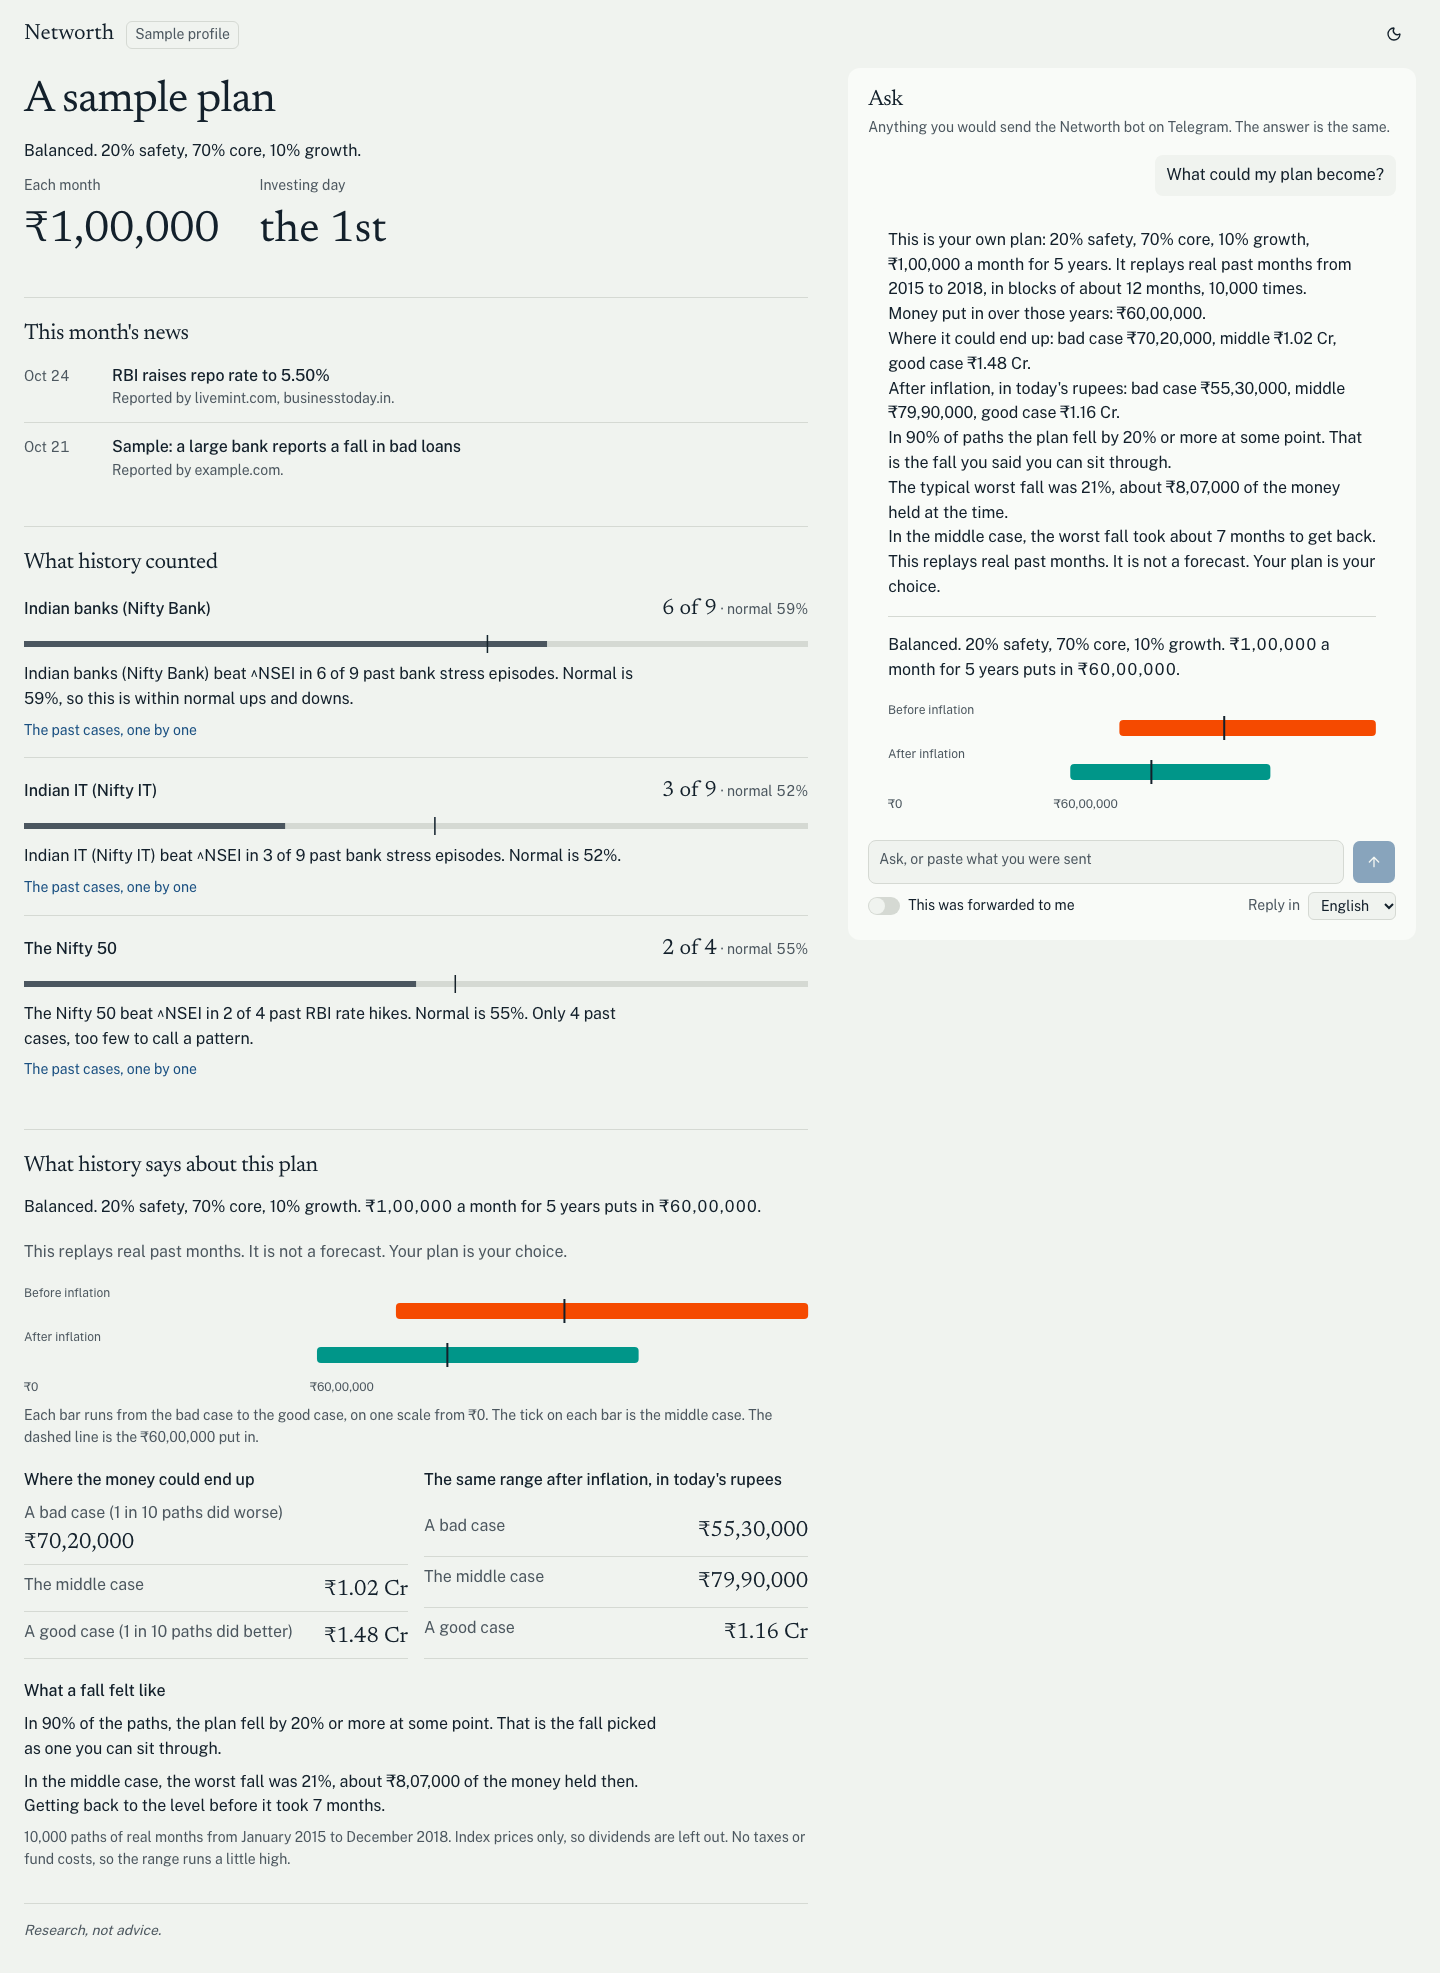
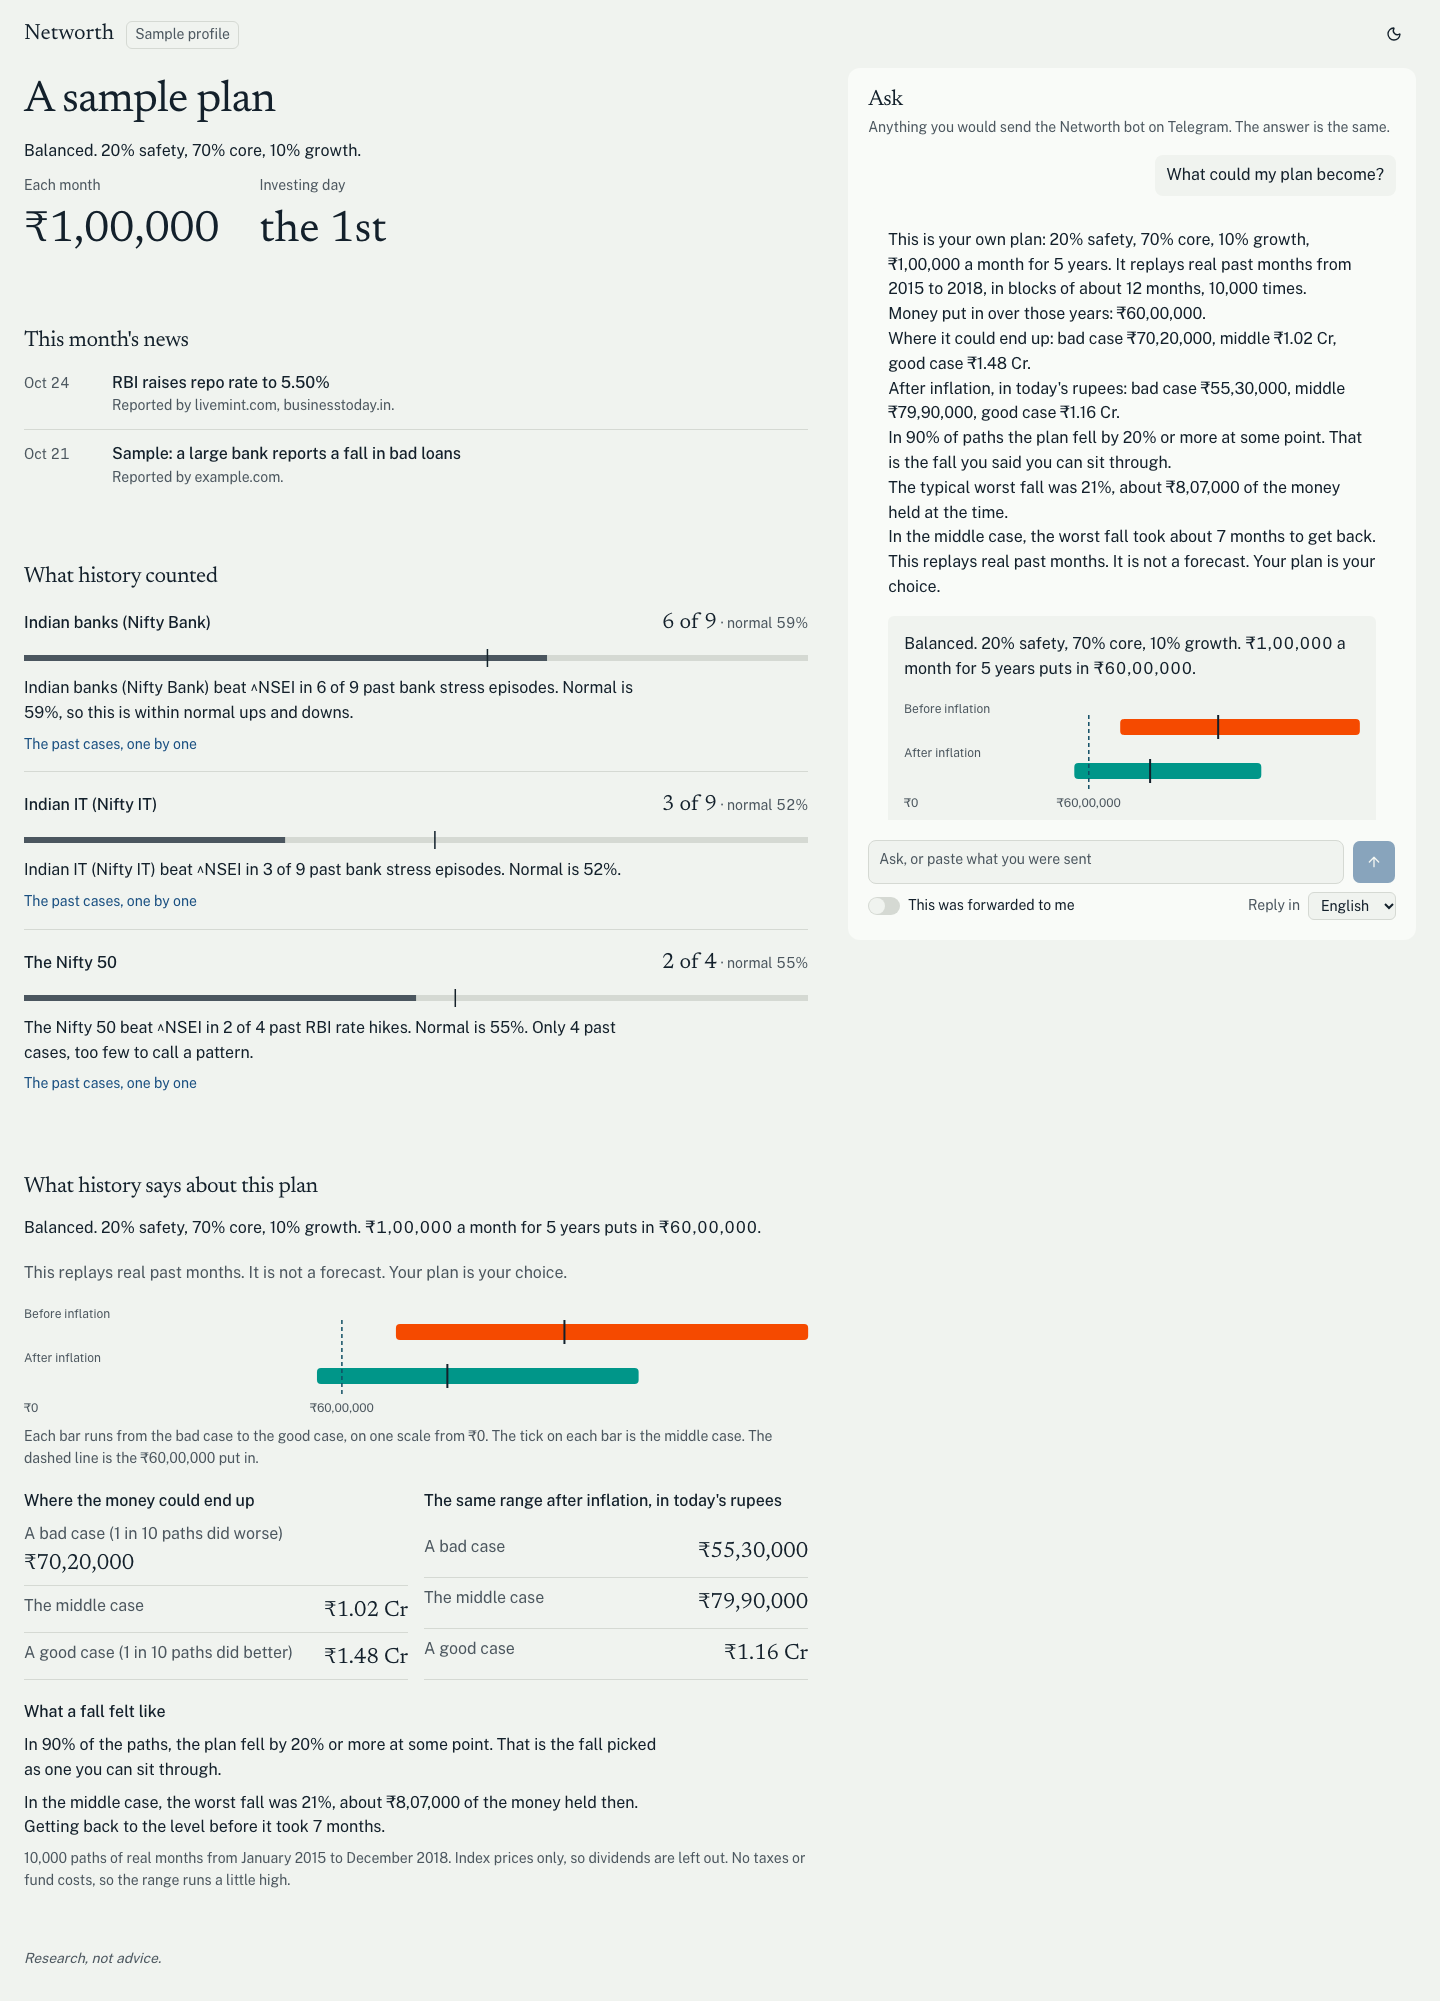
fix: draw the invested line and steady the holdings bars on the site
The pencil filter's bounding box was zero wide on vertical lines, so the
range's invested line vanished. Section dividers become spacing, the mix bars
get fixed-size labels and a legend, and the screenshots are refreshed.

diff --git a/site/components/ui/switch.tsx b/site/components/ui/switch.tsx
@@ -15,7 +15,7 @@ function Switch({
       data-slot="switch"
       data-size={size}
       className={cn(
-        "peer group/switch relative inline-flex shrink-0 items-center rounded-full border border-transparent transition-all outline-none group-has-[:focus-visible]/field-label:border-transparent group-has-[:focus-visible]/field-label:ring-0 after:absolute after:-inset-x-3 after:-inset-y-2 focus-visible:border-ring focus-visible:ring-3 focus-visible:ring-ring/50 aria-invalid:border-destructive aria-invalid:ring-3 aria-invalid:ring-destructive/20 data-[size=default]:h-[18.4px] data-[size=default]:w-[32px] data-[size=sm]:h-[14px] data-[size=sm]:w-[24px] dark:aria-invalid:border-destructive/50 dark:aria-invalid:ring-destructive/40 data-checked:bg-primary data-unchecked:bg-input dark:data-unchecked:bg-input/80 data-disabled:cursor-not-allowed data-disabled:opacity-50",
+        "peer group/switch relative inline-flex shrink-0 items-center rounded-full border border-transparent transition-[color,background-color,border-color,box-shadow,transform,opacity] outline-none group-has-[:focus-visible]/field-label:border-transparent group-has-[:focus-visible]/field-label:ring-0 after:absolute after:-inset-x-3 after:-inset-y-2 focus-visible:border-ring focus-visible:ring-3 focus-visible:ring-ring/50 aria-invalid:border-destructive aria-invalid:ring-3 aria-invalid:ring-destructive/20 data-[size=default]:h-[18.4px] data-[size=default]:w-[32px] data-[size=sm]:h-[14px] data-[size=sm]:w-[24px] dark:aria-invalid:border-destructive/50 dark:aria-invalid:ring-destructive/40 data-checked:bg-primary data-unchecked:bg-input dark:data-unchecked:bg-input/80 data-disabled:cursor-not-allowed data-disabled:opacity-50",
         className
       )}
       {...props}

diff --git a/site/components/ui/button.tsx b/site/components/ui/button.tsx
@@ -3,7 +3,7 @@ import { cva, type VariantProps } from "class-variance-authority"
 import { cn } from "cn"
 
 const buttonVariants = cva(
-  "group/button inline-flex shrink-0 items-center justify-center rounded-lg border border-transparent bg-clip-padding text-sm font-medium whitespace-nowrap transition-all outline-none select-none focus-visible:border-ring focus-visible:ring-3 focus-visible:ring-ring/50 active:not-aria-[haspopup]:translate-y-px disabled:pointer-events-none disabled:opacity-50 aria-invalid:border-destructive aria-invalid:ring-3 aria-invalid:ring-destructive/20 dark:aria-invalid:border-destructive/50 dark:aria-invalid:ring-destructive/40 [&_svg]:pointer-events-none [&_svg]:shrink-0 [&_svg:not([class*='size-'])]:size-4",
+  "group/button inline-flex shrink-0 items-center justify-center rounded-lg border border-transparent bg-clip-padding text-sm font-medium whitespace-nowrap transition-[color,background-color,border-color,box-shadow,transform,opacity] outline-none select-none focus-visible:border-ring focus-visible:ring-3 focus-visible:ring-ring/50 active:not-aria-[haspopup]:translate-y-px disabled:pointer-events-none disabled:opacity-50 aria-invalid:border-destructive aria-invalid:ring-3 aria-invalid:ring-destructive/20 dark:aria-invalid:border-destructive/50 dark:aria-invalid:ring-destructive/40 [&_svg]:pointer-events-none [&_svg]:shrink-0 [&_svg:not([class*='size-'])]:size-4",
   {
     variants: {
       variant: {

diff --git a/site/components/ledger.tsx b/site/components/ledger.tsx
@@ -8,7 +8,7 @@ import { withoutFooter } from "@/lib/words";
 
 function Section({ id, title, children }: { id: string; title: string; children: React.ReactNode }) {
   return (
-    <section aria-labelledby={id} className="grid gap-4 border-t border-rule pt-6">
+    <section aria-labelledby={id} className="grid gap-4 pt-4">
       <h2 id={id} className="text-head">{title}</h2>
       {children}
     </section>
@@ -19,7 +19,7 @@ function Section({ id, title, children }: { id: string; title: string; children:
 export function Ledger({ board }: { board: Dashboard }) {
   const { profile } = board;
   return (
-    <div className="grid gap-8">
+    <div className="grid gap-12">
       <header className="grid gap-3">
         <h1 className="text-display">{board.sample ? "A sample plan" : "Your plan"}</h1>
         {profile.plan ? (
@@ -56,7 +56,7 @@ export function Ledger({ board }: { board: Dashboard }) {
         </Section>
       )}
 
-      <div className="grid gap-1 border-t border-rule pt-4">
+      <div className="grid gap-1 pt-2">
         <Footer text={board.footer} />
         {!board.sample && (
           <p className="text-note text-graphite">This page is private to you. Anyone with the link can see it, so don&apos;t share it.</p>

diff --git a/site/components/cards/range.tsx b/site/components/cards/range.tsx
@@ -36,7 +36,7 @@ function Cases({ title, rows }: { title: string; rows: [string, string][] }) {
       <h4 className="font-medium">{title}</h4>
       <dl className="grid gap-1">
         {rows.map(([name, value]) => (
-          <div key={name} className="flex flex-wrap justify-between gap-x-4 border-b border-rule py-1">
+          <div key={name} className="flex flex-wrap justify-between gap-x-4 border-b border-rule py-1" /* taste-skill-ignore: a passbook ledger's ruled rows, the design idea */>
             <dt className="text-graphite">{name}</dt>
             <dd className="figures font-display text-head">{value}</dd>
           </div>

diff --git a/site/components/cards/news.tsx b/site/components/cards/news.tsx
@@ -4,7 +4,7 @@ import { EmptyLedger } from "@/components/pencil";
 export function NewsList({ card }: { card: NewsCard }) {
   if (!card.items.length) return card.note ? <EmptyLedger note={card.note} /> : null;
   return (
-    <ol className="divide-y divide-rule">
+    <ol className="divide-y divide-rule" /* taste-skill-ignore: a passbook ledger's ruled rows, the design idea */>
       {card.items.map((item, i) => (
         <li key={`${i}-${item.title}`} className="grid grid-cols-[4.5rem_minmax(0,1fr)] gap-x-4 py-3 first:pt-0">
           <span className="figures pt-0.5 text-note text-graphite">{item.day}</span>

diff --git a/site/components/pencil.tsx b/site/components/pencil.tsx
@@ -2,7 +2,7 @@
 export function PencilDefs() {
   return (
     <svg width="0" height="0" aria-hidden="true" focusable="false" className="absolute">
-      <filter id="pencil" x="-5%" y="-20%" width="110%" height="140%">
+      <filter id="pencil" filterUnits="userSpaceOnUse" x="-10" y="-10" width="4000" height="400">
         <feTurbulence type="fractalNoise" baseFrequency="0.9" numOctaves="2" seed="7" />
         <feDisplacementMap in="SourceGraphic" scale="1.2" />
       </filter>

diff --git a/site/components/cards/history.tsx b/site/components/cards/history.tsx
@@ -37,7 +37,7 @@ function Row({ row }: { row: HistoryRow }) {
 export function HistoryRows({ card }: { card: HistoryCard }) {
   if (!card.rows.length) return card.note ? <EmptyLedger note={card.note} /> : null;
   return (
-    <ul className="divide-y divide-rule">
+    <ul className="divide-y divide-rule" /* taste-skill-ignore: a passbook ledger's ruled rows, the design idea */>
       {card.rows.map((row) => (
         <Row key={`${row.type}-${row.asset}`} row={row} />
       ))}

diff --git a/site/components/answer-card.tsx b/site/components/answer-card.tsx
@@ -24,7 +24,7 @@ export function AnswerCard({ turn }: { turn: ChatTurn }) {
   return (
     <article className="grid gap-4 rounded-lg bg-sheet p-4 sm:p-5" data-card={turn.card.type}>
       <MessageView message={turn.message} />
-      {body && <div className="border-t border-rule pt-4">{body}</div>}
+      {body && <div className="rounded-md bg-paper p-3 sm:p-4">{body}</div>}
       <Footer text={turn.message.footer} />
     </article>
   );

diff --git a/.claude/CHANGELOG.md b/.claude/CHANGELOG.md
@@ -455,3 +455,6 @@
 
 ## 2026-10-25 — fix: phase 8 chat carries the phase 7B holdings intent
 - After rebasing onto 7B, the contract test caught the new holdings intent. The API now answers it with the asker's holdings card (a text card when none), and the contract and site types list it.
+
+## 2026-10-25 — fix: phase 8 site polish after the taste gate and screenshots
+- Section dividers became spacing; ledger row rules kept as the design idea. The pencil filter now uses a fixed region so the vertical "what you put in" line draws. Holdings mix bars got fixed-size labels and a bucket legend. Primitives name their transition properties. Screenshots refreshed.
